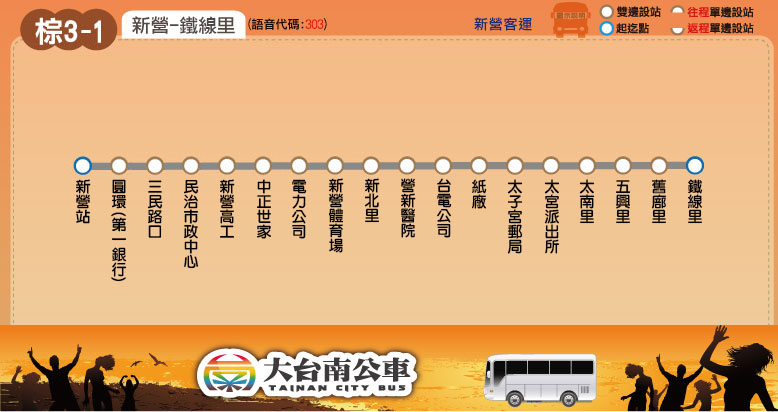
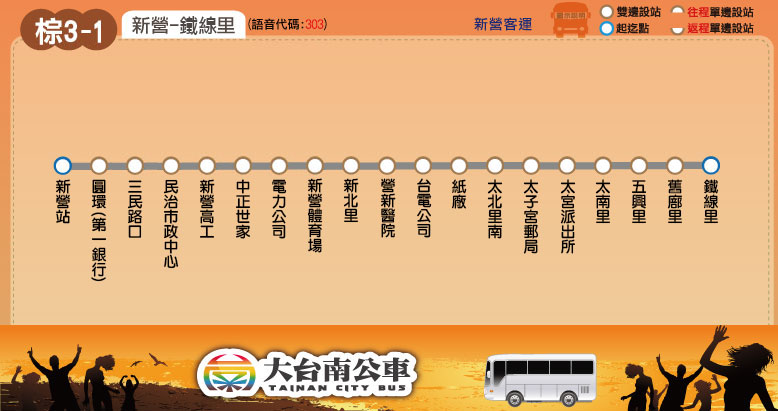
新增站位：棕3-1(增「太北里南」站位)

Changed region(s): [[0.0617, 0.3796, 0.9254, 0.7007], [0.0, 0.7883, 1.0, 1.0], [0.2159, 0.0292, 0.2776, 0.0876]]

diff --git a/route/fare_and_time/brown_3_1.js b/route/fare_and_time/brown_3_1.js
@@ -3,7 +3,7 @@ brown_3_1_interval_stop = [ // 2017.01.07 checked
 ["新營站","圓環(第一銀行)","三民路口","民治市政中心","新營高工","中正世家","電力公司","新營體育場","新北里","營新醫院"], // 新營
 ["台電公司"], // 台電公司
 ["紙廠"], // 紙廠
-["太子宮郵局","太宮派出所","太南里"], // 太宮派出所
+["太北里南","太子宮郵局","太宮派出所","太南里"], // 太宮派出所
 ["五興里"], // 五興里
 ["舊廍里"], // 舊廍里
 ["鐵線里"] // 鐵線里
